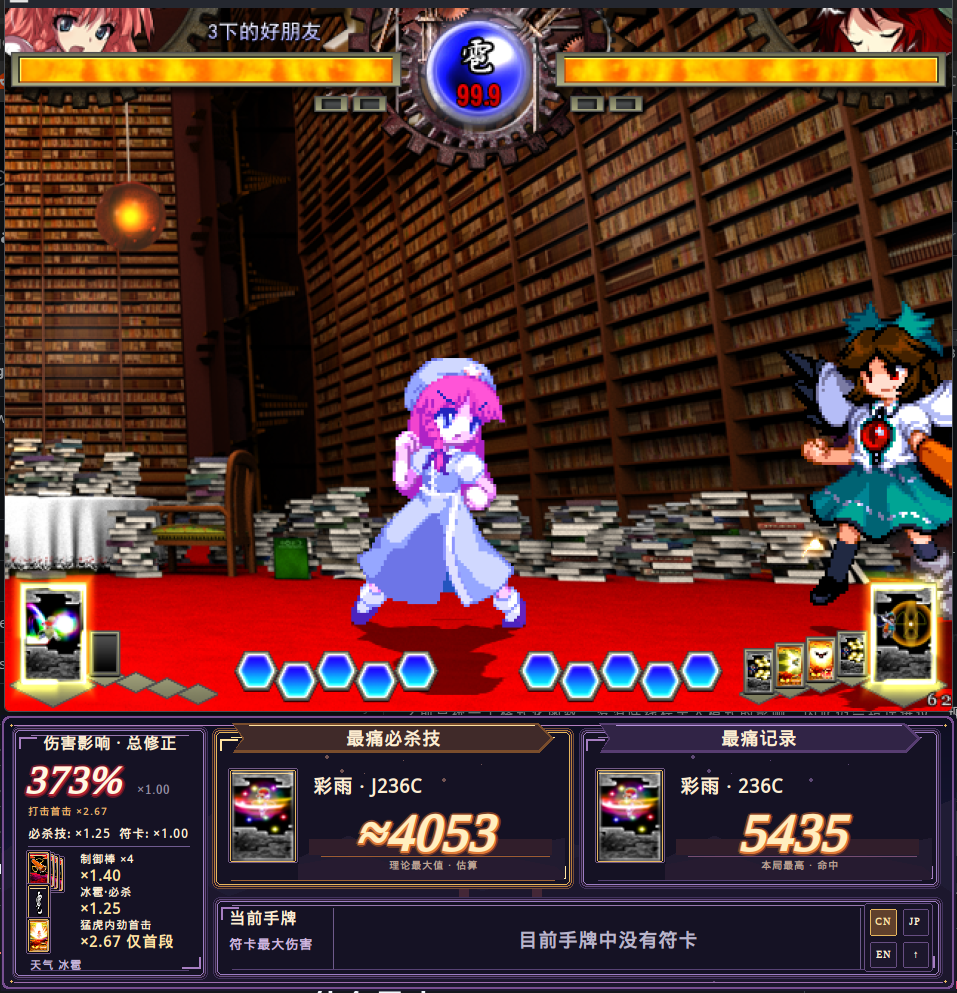
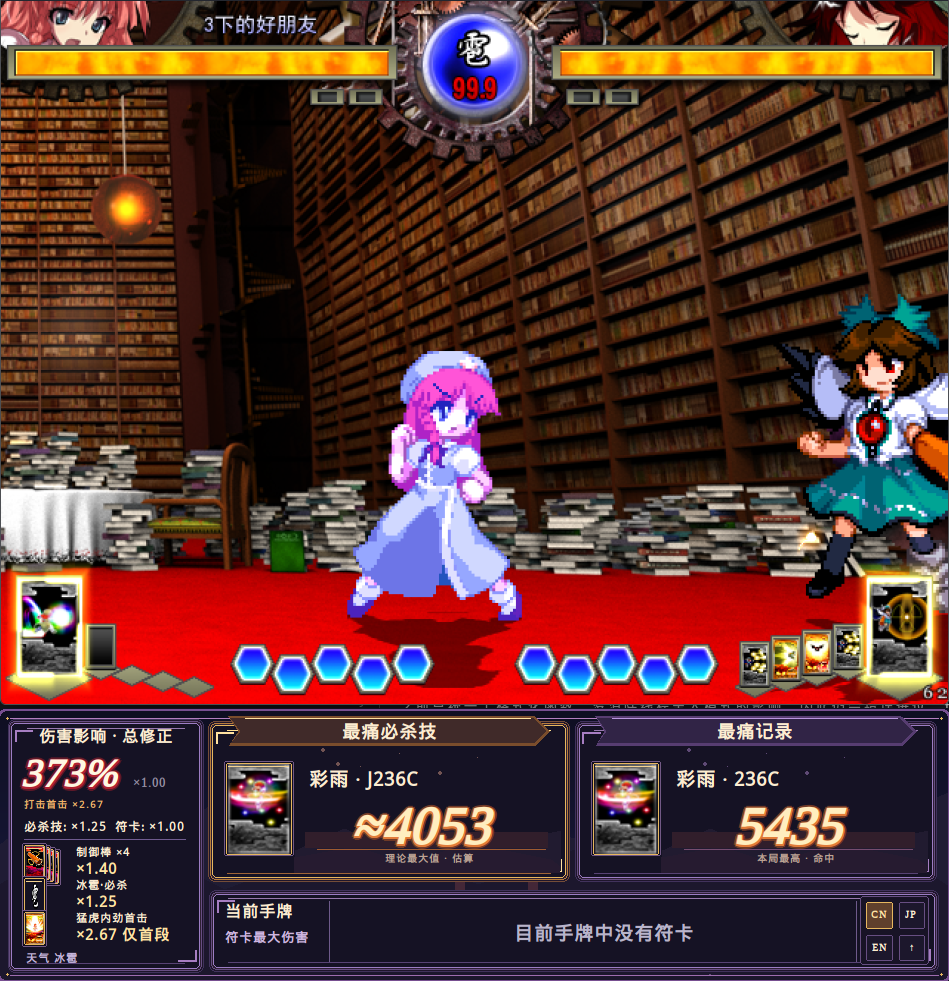
docs: crop overview borders and show HUD-only detail screenshot

diff --git a/README.ja.md b/README.ja.md
@@ -6,9 +6,13 @@
 
 **戦闘データの読み取り専用 MOD です。** 実行中の戦闘状態を読み取り、推定と表示にのみ使用します。実際のダメージ、キャラクターの能力値、戦闘状態を変更せず、通信パケットや乱数（RNG）にも介入しません。ゲームへの操作入力も行いません。画像の抽出では元のゲームアーカイブを変更せず、生成画像と表示設定は MOD 自身のフォルダーに保存します。
 
-![美鈴：ダメージ補正と彩雨の記録](docs/hud-meiling.png)
+![全体画面：ゲームと下部 HUD](docs/hud-meiling.png)
 
-![妖夢：手札のスペルカードと最大ダメージ記録](docs/hud-youmu.png)
+*全体画面*
+
+![HUD 詳細：ダメージ補正・最大ダメージ記録・手札](docs/hud-youmu.png)
+
+*HUD 詳細*
 
 ## 導入方法
 

diff --git a/README.en.md b/README.en.md
@@ -6,9 +6,13 @@ A damage reference HUD for **Touhou Hisoutensoku v1.10a**. A companion panel bel
 
 **Battle data is read-only.** The mod reads runtime battle state for estimates and display. It does not change actual damage, character stats or battle state, modify network packets, interfere with the random number generator (RNG), or send gameplay inputs. Image extraction leaves the original game archives untouched; generated images and UI preferences are stored in the mod’s own folder.
 
-![Meiling: damage modifiers and Colorful Rain record](docs/hud-meiling.png)
+![Full interface: game and companion HUD](docs/hud-meiling.png)
 
-![Youmu: spell cards in hand and best hit](docs/hud-youmu.png)
+*Full interface*
+
+![HUD detail: damage modifiers, best hit and current hand](docs/hud-youmu.png)
+
+*HUD detail*
 
 ## Install
 

diff --git a/README.md b/README.md
@@ -6,9 +6,13 @@
 
 **战斗数据只读。** 本 MOD 只读取游戏运行时的战斗状态，用于估算和显示；不改变实际伤害、角色属性或战斗状态，不修改网络封包，不干预随机数（RNG），也不向游戏发送操作。自动提图只读取原始资源文件，生成的图片和界面设置保存在 MOD 自己的目录中。
 
-![美铃：伤害修正与彩雨记录](docs/hud-meiling.png)
+![完整界面：游戏画面与下方 HUD](docs/hud-meiling.png)
 
-![妖梦：符卡手牌与最痛记录](docs/hud-youmu.png)
+*完整界面*
+
+![HUD 细节：伤害修正、最痛记录与当前手牌](docs/hud-youmu.png)
+
+*HUD 细节*
 
 ## 安装
 
